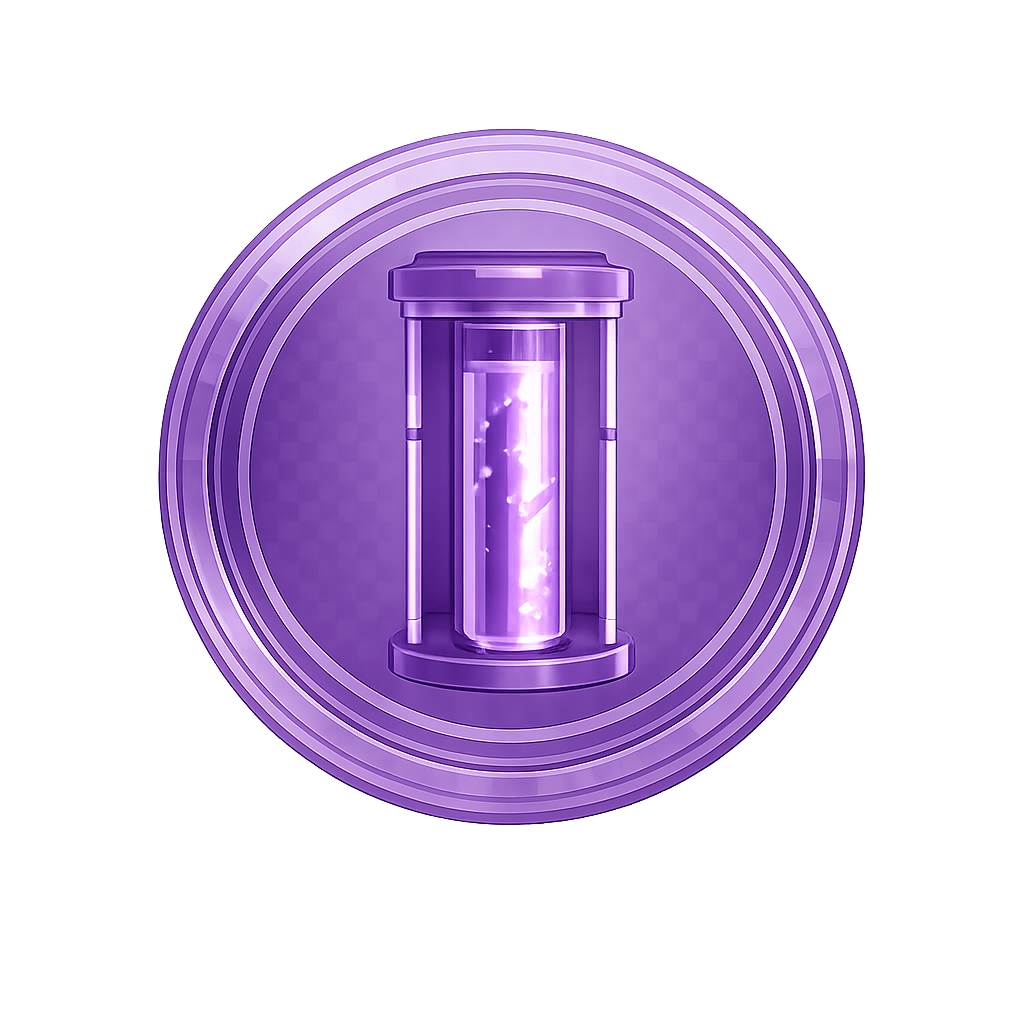
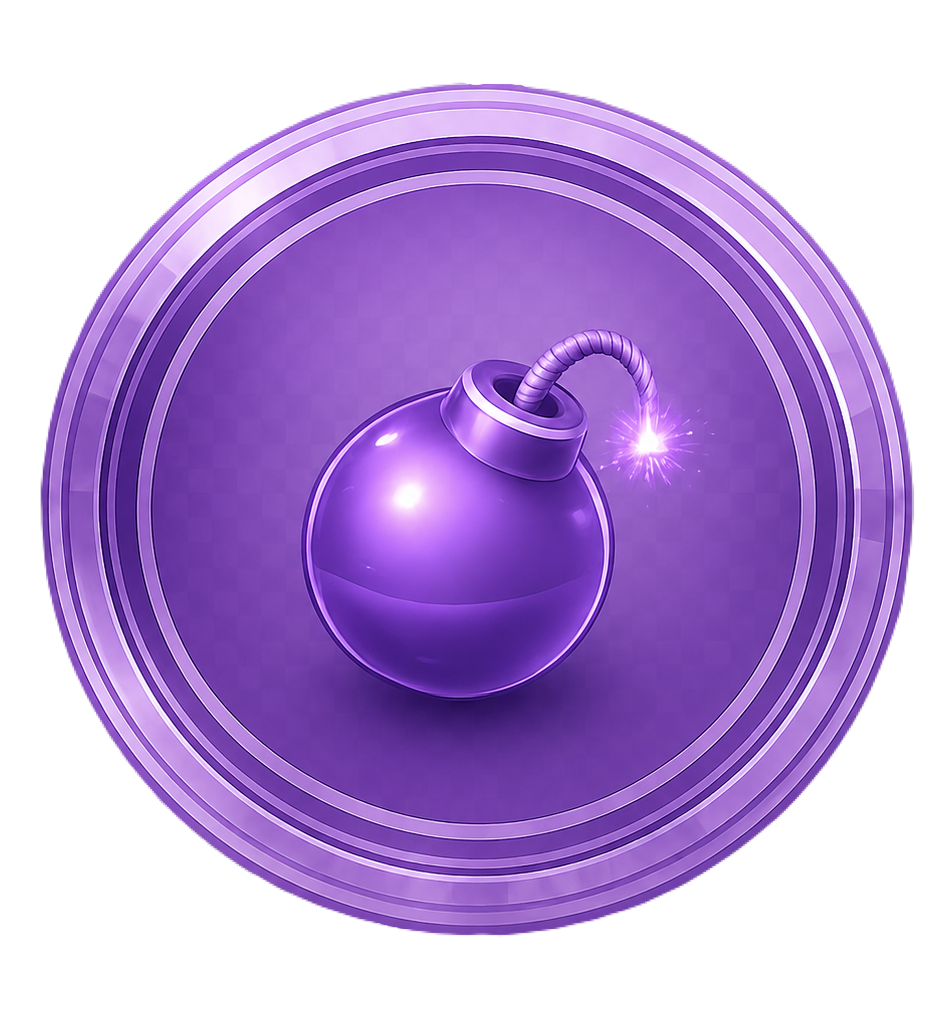
bombs, botão e flash

diff --git a/client/js/scene0.js b/client/js/scene0.js
@@ -10,11 +10,24 @@ class scene0 extends Phaser.Scene {
     this.hasBomb = false;
     this.bombTimer = 0;
     this.bombDuration = 30000; // 30 segundos em ms
+    this.alienFrozen = false;
+    this.alienFreezeDuration = 10000; // 10 segundos em ms
+    this.alienFreezeTimer = 0;
   }
 
   init() {
     // Resetar contador quando volta da gameover
     this.gearCount = 0;
+  }
+
+  updateBombButtonState() {
+    if (this.bombButton) {
+      this.bombButton.setAlpha(this.hasBomb ? 1 : 0.4);
+    }
+  }
+
+  flashBombButton() {
+    this.cameras.main.flash(200, 255, 255, 255);
   }
 
   create() {
@@ -460,6 +473,7 @@ class scene0 extends Phaser.Scene {
         bomb.destroy();
         this.hasBomb = true;
         this.bombTimer = this.bombDuration;
+        this.updateBombButtonState();
         console.log("Bomba coletada!");
       },
       null,
@@ -698,16 +712,76 @@ class scene0 extends Phaser.Scene {
       .setOrigin(0, 0.5)
       .setScrollFactor(0)
       .setDepth(1000);
+
+    const bombButtonMargin = 16;
+    this.bombButton = this.add
+      .image(
+        this.cameras.main.width - bombButtonMargin,
+        this.cameras.main.height - bombButtonMargin,
+        "botaobomba",
+      )
+      .setOrigin(1)
+      .setScrollFactor(0)
+      .setDepth(1000)
+      .setScale(0.102)
+      .setInteractive()
+
+    this.updateBombButtonState();
+
+    this.bombButton.on("pointerover", () => {
+      if (this.hasBomb) {
+        this.bombButton.setTint(0xffffaa);
+      }
+    });
+
+    this.bombButton.on("pointerout", () => {
+      this.bombButton.clearTint();
+    });
+
+    this.bombButton.on("pointerdown", () => {
+      if (this.hasBomb && !this.alienFrozen) {
+        this.cameras.main.flash()
+        this.alienFrozen = true;
+        this.alienFreezeTimer = this.alienFreezeDuration;
+        this.hasBomb = false;
+        this.bombTimer = 0;
+        this.updateBombButtonState();
+        this.flashBombButton();
+        console.log("Aliens congelados por 10 segundos!");
+      } else if (this.alienFrozen) {
+        console.log("Os aliens já estão congelados.");
+      } else {
+        console.log("Nenhuma bomba disponível.");
+      }
+    });
+
+    this.scale.on("resize", (gameSize) => {
+      this.bombButton.setPosition(
+        gameSize.width - bombButtonMargin,
+        gameSize.height - bombButtonMargin,
+      );
+    });
   }
 
-  update() {
+  update(time, delta) {
     // Atualizar temporizador de bomba
     if (this.hasBomb) {
-      this.bombTimer -= 1000 / 60; // Reduzir pelo deltaTime aproximado
+      this.bombTimer -= delta;
       if (this.bombTimer <= 0) {
         this.hasBomb = false;
         this.bombTimer = 0;
+        this.updateBombButtonState();
         console.log("Bomba expirou!");
+      }
+    }
+
+    if (this.alienFrozen) {
+      this.alienFreezeTimer -= delta;
+      if (this.alienFreezeTimer <= 0) {
+        this.alienFrozen = false;
+        this.alienFreezeTimer = 0;
+        this.flashBombButton();
+        console.log("Aliens voltaram a correr!");
       }
     }
 
@@ -756,6 +830,12 @@ class scene0 extends Phaser.Scene {
     }
 
     this.aliens.children.iterate((alien) => {
+      if (this.alienFrozen) {
+        alien.setVelocity(0, 0);
+        alien.anims.stop();
+        return;
+      }
+
       if (
         Phaser.Math.Distance.Between(
           this.player.x,

diff --git a/client/js/preloader.js b/client/js/preloader.js
@@ -139,25 +139,26 @@ class preloader extends Phaser.Scene {
       frameHeight: 32,
     });
     this.load.image("bomba", "bomba.png");
+    this.load.image("botaobomba", "botaobomba.png");
     this.load.spritesheet("astronautaarmabaixo", "astronautaarmabaixo.png", {
       frameWidth: 128,
       frameHeight: 128,
     });
     //this.load.spritesheet(
-     // "astronautaarmaesquerda",
-     // "astronautaarmaesquerda.png",
-      //{
-      //  frameWidth: 128,
-      //  frameHeight: 128,
-     // },
+    // "astronautaarmaesquerda",
+    // "astronautaarmaesquerda.png",
+    //{
+    //  frameWidth: 128,
+    //  frameHeight: 128,
+    // },
     //);
-   //this.load.spritesheet(
-     // "astronautadisparodireita",
-     // "astronautadisparodireita.png",
-     // {
-     //   frameWidth: 128,
-      //  frameHeight: 128,
-      //},
+    //this.load.spritesheet(
+    // "astronautadisparodireita",
+    // "astronautadisparodireita.png",
+    // {
+    //   frameWidth: 128,
+    //  frameHeight: 128,
+    //},
     //);
     this.load.image("contadorBg", "contador.png");
     this.load.audio("music", "music.mp3");